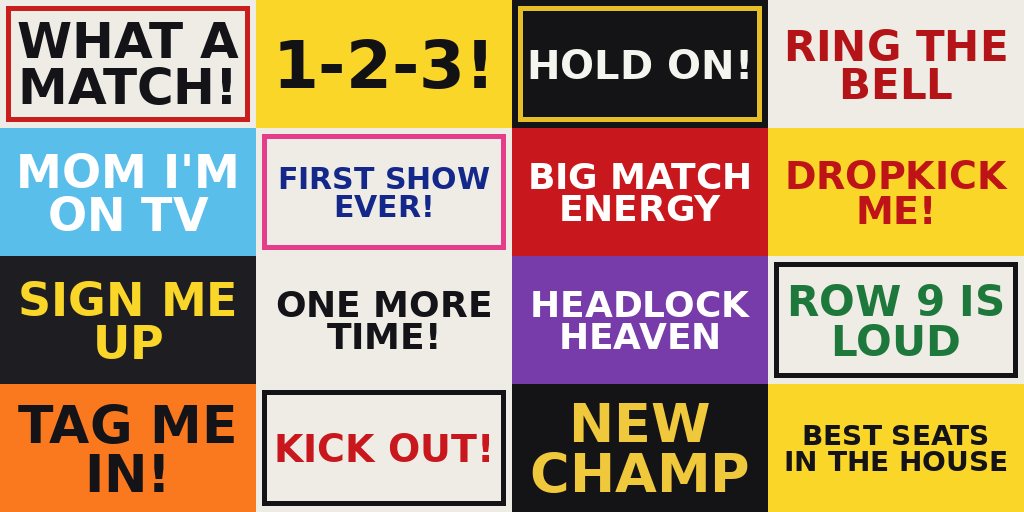
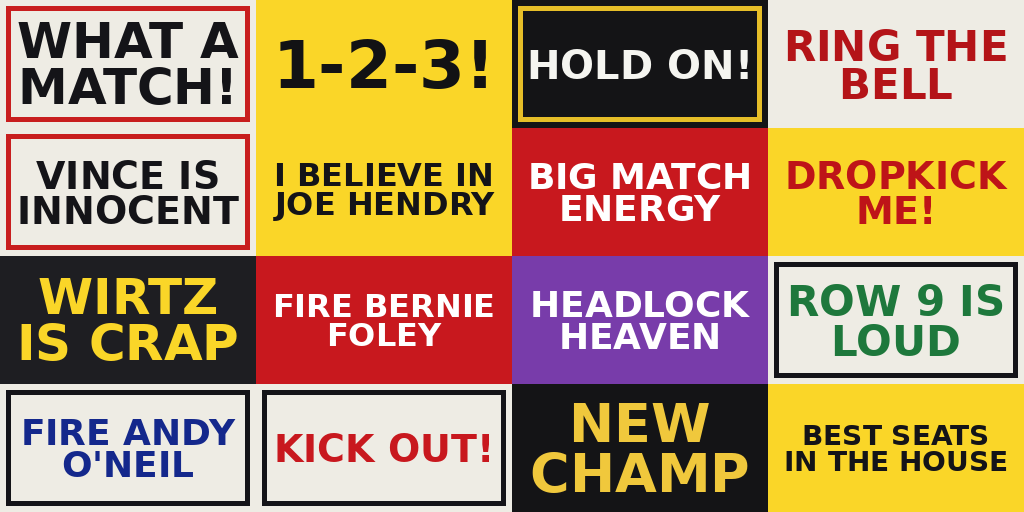
Crowd signs: five fan-opinion boards (Vince, Joe Hendry, Wirtz, Foley, O'Neil)
Claude-Session: https://claude.ai/code/session_01RyRo3mh3ZakHSDewU65aFM

Changed region(s): [[0.0, 0.25, 0.5, 0.75], [0.0, 0.75, 0.25, 1.0]]

diff --git a/tools/blender/crowd_signs.py b/tools/blender/crowd_signs.py
@@ -8,7 +8,7 @@ ringside sign fans (`core/arena/sign_fans.gd`) take a cell of this atlas.
 Plain PIL -- no Blender -- and deterministic: the same font file and this
 table produce the same PNG.
 
-The slogans are ORIGINAL. A real crowd's signs are about real wrestlers and
+Most slogans are ORIGINAL; five are fan opinions the owner asked for. A real crowd's signs are about real wrestlers and
 real shows, and those names and marks are not ours to print; these are the
 kind of thing a fan writes in marker on a board without naming anybody
 (`game/assets/environment/CREDITS.md`).
@@ -38,15 +38,15 @@ SIGNS = (
     (("1-2-3!",), (250, 214, 40), (18, 18, 20), None),
     (("HOLD ON!",), (20, 20, 22), (245, 245, 240), (230, 190, 40)),
     (("RING THE", "BELL"), (238, 236, 228), (180, 20, 24), None),
-    (("MOM I'M", "ON TV"), (90, 190, 235), (255, 255, 255), None),
-    (("FIRST SHOW", "EVER!"), (238, 236, 228), (20, 40, 140), (230, 60, 140)),
+    (("VINCE IS", "INNOCENT"), (238, 236, 228), (20, 20, 24), (200, 30, 30)),
+    (("I BELIEVE IN", "JOE HENDRY"), (250, 214, 40), (20, 20, 24), None),
     (("BIG MATCH", "ENERGY"), (200, 24, 30), (255, 255, 255), None),
     (("DROPKICK", "ME!"), (250, 214, 40), (190, 20, 24), None),
-    (("SIGN ME", "UP"), (30, 30, 34), (250, 214, 40), None),
-    (("ONE MORE", "TIME!"), (238, 236, 228), (20, 20, 24), None),
+    (("WIRTZ", "IS CRAP"), (30, 30, 34), (250, 214, 40), None),
+    (("FIRE BERNIE", "FOLEY"), (200, 24, 30), (255, 255, 255), None),
     (("HEADLOCK", "HEAVEN"), (120, 60, 170), (255, 255, 255), None),
     (("ROW 9 IS", "LOUD"), (238, 236, 228), (30, 120, 60), (20, 20, 24)),
-    (("TAG ME", "IN!"), (250, 120, 30), (20, 20, 24), None),
+    (("FIRE ANDY", "O'NEIL"), (238, 236, 228), (20, 40, 140), (20, 20, 24)),
     (("KICK OUT!",), (238, 236, 228), (200, 24, 30), (20, 20, 24)),
     (("NEW", "CHAMP"), (20, 20, 22), (240, 200, 60), None),
     (("BEST SEATS", "IN THE HOUSE"), (250, 214, 40), (20, 20, 24), None),
